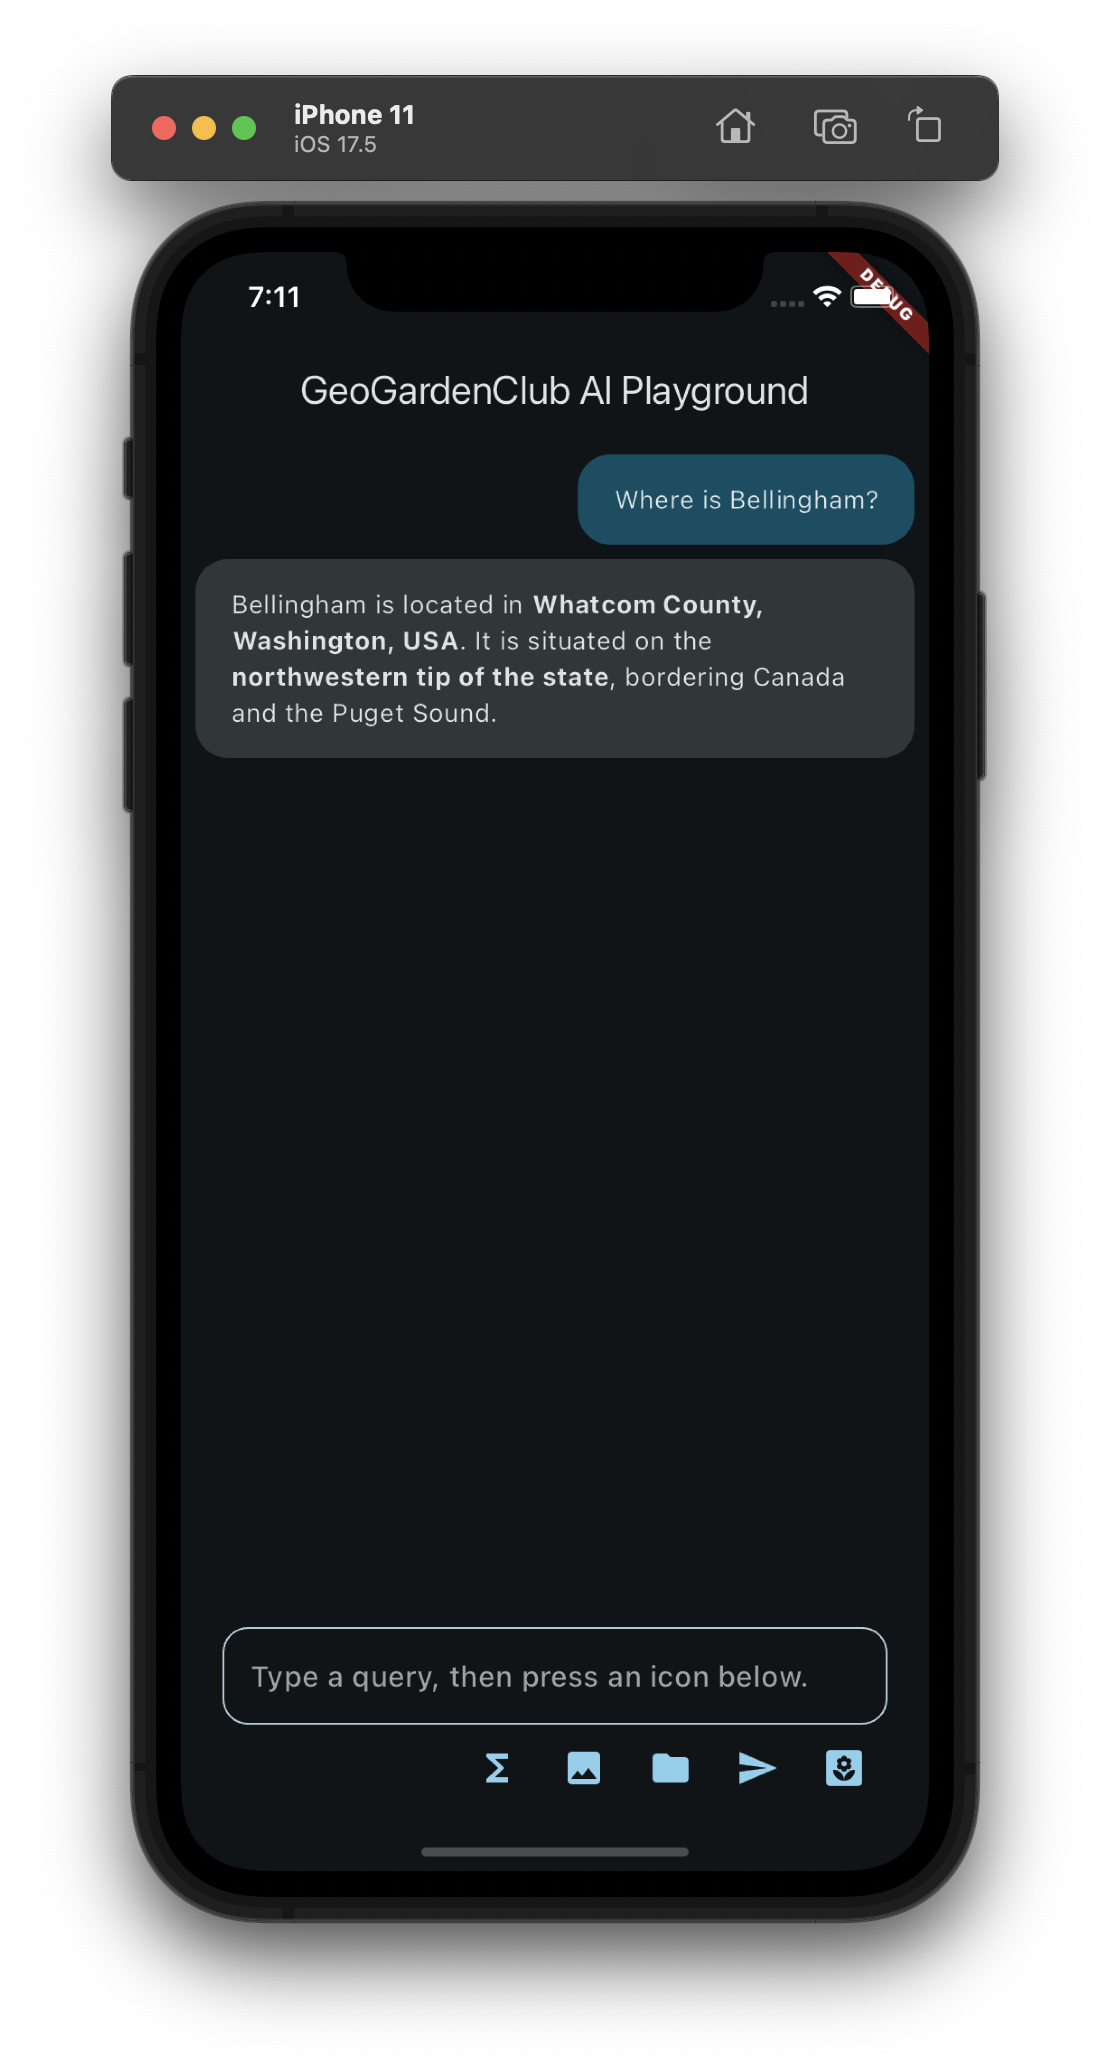
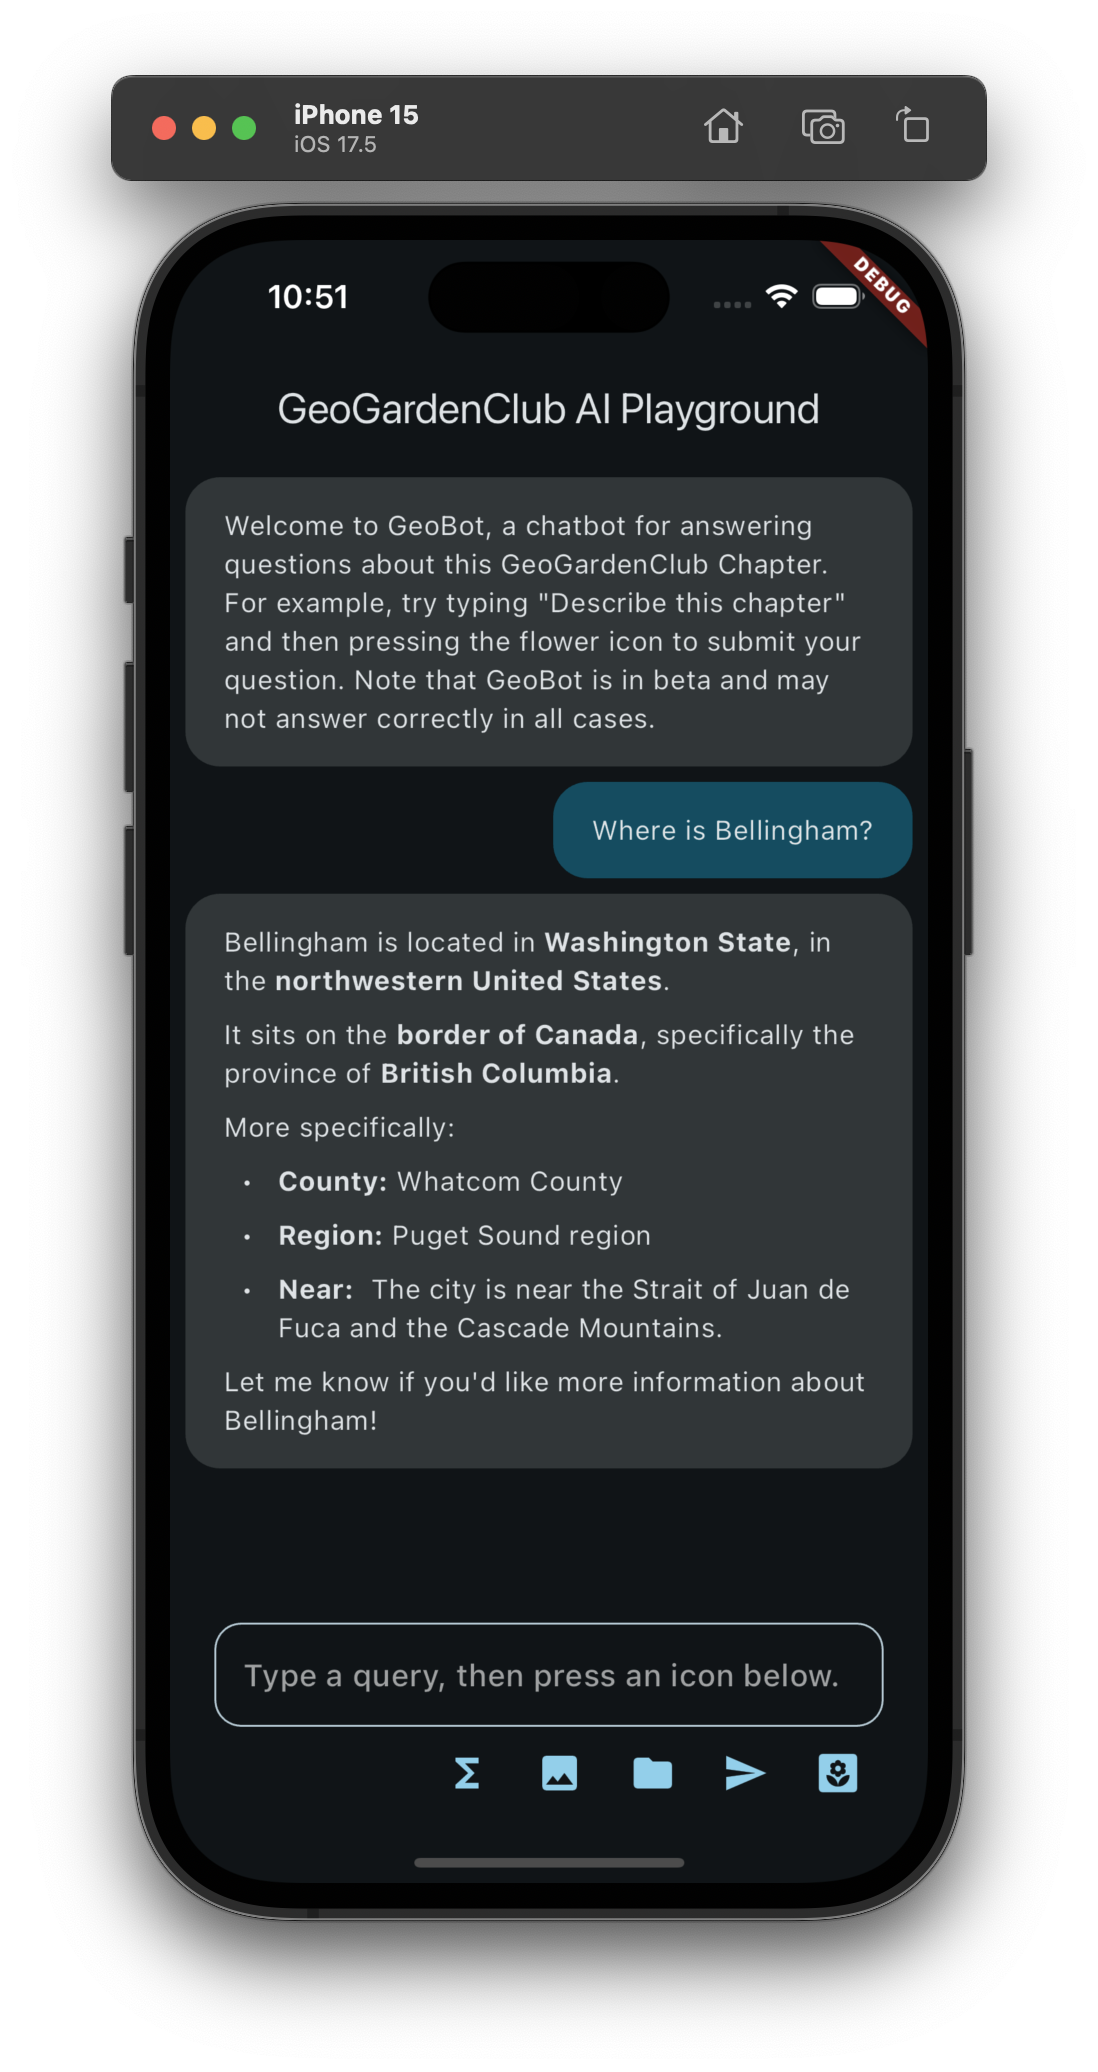
update readme

diff --git a/lib/chat_screen.dart b/lib/chat_screen.dart
@@ -33,7 +33,8 @@ class _ChatScreenState extends State<ChatScreen> {
   bool _working = false;
   final String _initialMessage = 'Welcome to GeoBot, a chatbot '
       'for answering questions about this GeoGardenClub Chapter. '
-      'For example, try asking "Describe this chapter." '
+      'For example, try typing "Describe this chapter" '
+      'and then pressing the flower icon to submit your question. '
       'Note that GeoBot is in beta and may not answer correctly in all cases.';
 
   @override
@@ -42,8 +43,9 @@ class _ChatScreenState extends State<ChatScreen> {
     WidgetsBinding.instance.addPostFrameCallback((_) {
       initFirebase().then((value) {
         _model = FirebaseVertexAI.instance.generativeModel(
-            model: 'gemini-1.5-flash', // 'gemini-1.5-flash-preview-0514'
-            systemInstruction: Content.system(systemInstruction));
+          model: 'gemini-1.5-flash', // 'gemini-1.5-flash-preview-0514'
+          // systemInstruction: Content.system(systemInstruction)
+        );
         _functionCallModel = FirebaseVertexAI.instance.generativeModel(
           model: 'gemini-1.5-flash',
           systemInstruction: Content.system(systemInstruction),
